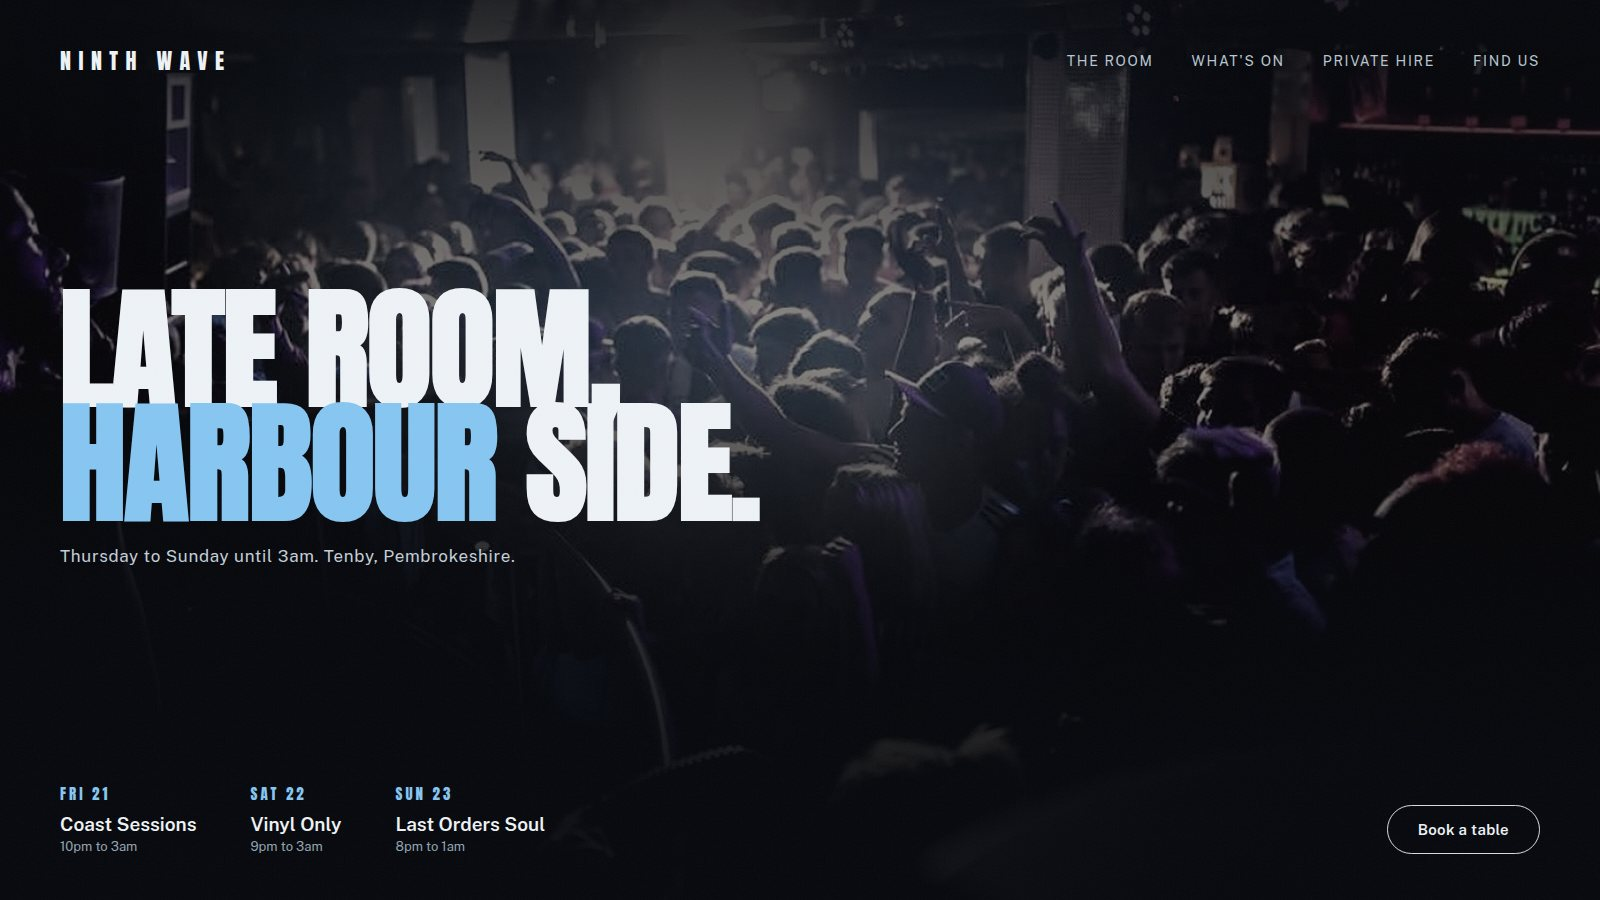
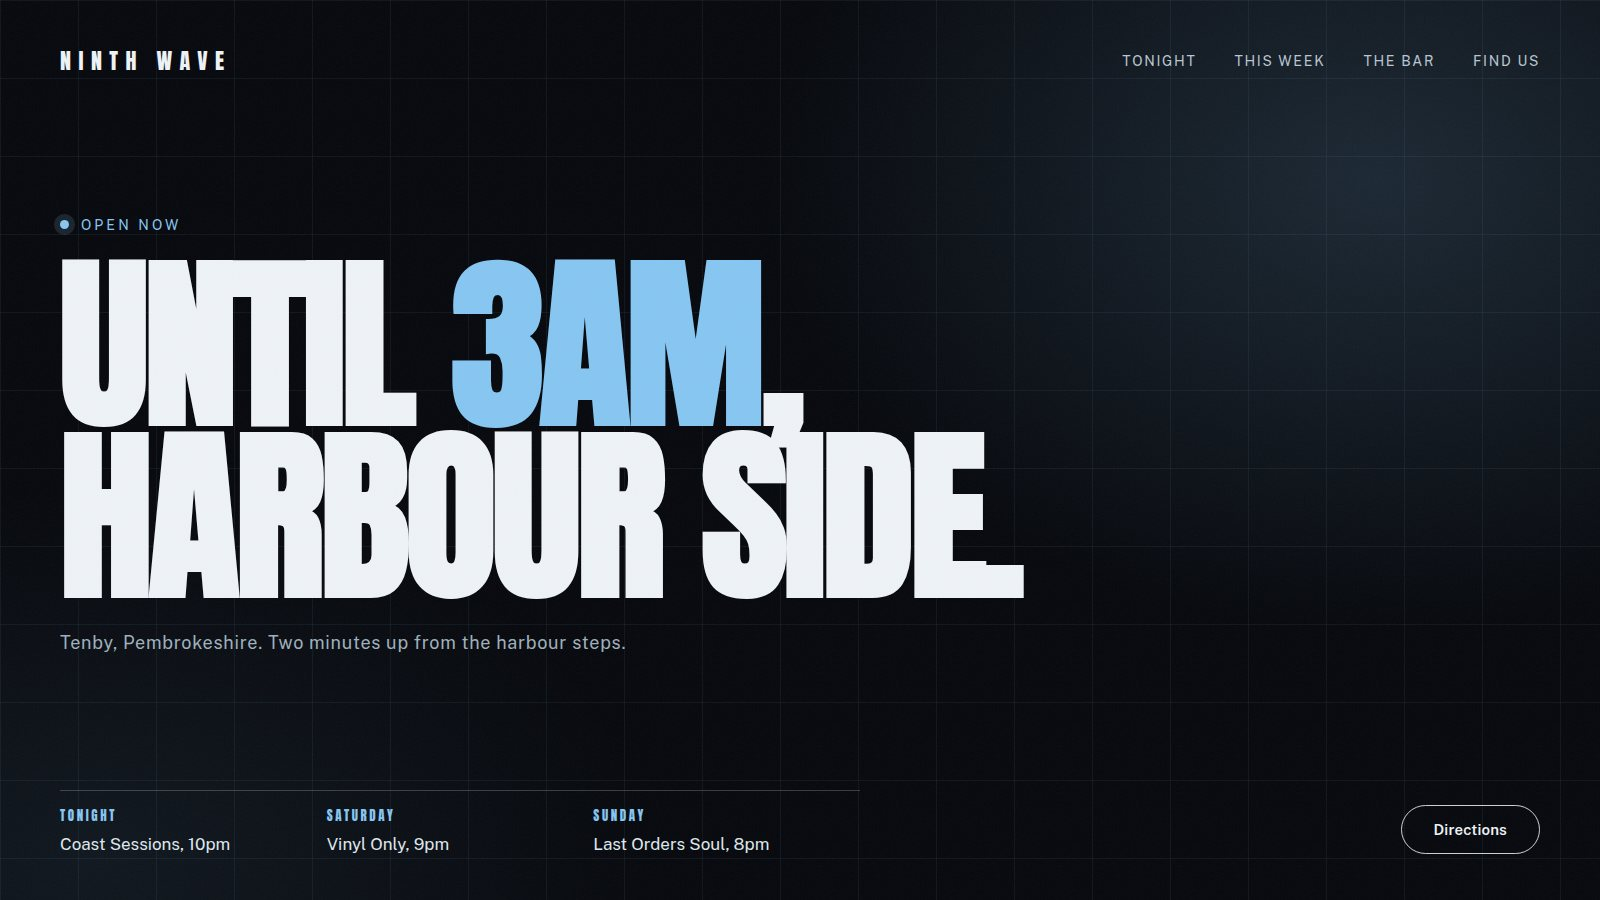
Put real detail in About, and cut the copy that repeated itself
The About section was written before I knew anything real about Kit, so it
said nothing. It now carries his own material: eighteen, Haverfordwest, the
nightclub at the top of the page being in the same town as his desk.

Rebalanced that section's grid at the same time. Three paragraphs made the
prose column taller than the heading column and left a hole under the display
type, so the availability line and CTA now sit in a second row under the
heading, against the prose baseline. The section fits one viewport again.

Honesty pass on the work section. Four of the five pieces are not client
engagements, and the section was calling all of them "Real businesses, real
problems". They now carry a Concept tag on the card and a line in the case
study saying what they are, which also stops the one live build being flattened
into a row of five things that look equally real. Dropped "West Wales' biggest
nightclub" too; the venue's own site says "No.1", and neither claim is ours.

Cut the repeats that were making it read as one idea said four ways:

- Ninth Wave was the Eddie Rocks case study again in other words, down to the
  nav labels and the photograph, which was literally the other venue's. It is
  now a type-led design about being findable at half ten at night, with no
  photography at all.
- The three ticked promises beside the process heading restated the fact strip
  and the About answers. Replaced with one line about the process itself.
[…]

diff --git a/portfolio/src/content.ts b/portfolio/src/content.ts
@@ -6,7 +6,7 @@
 export const SITE = {
   name: "Kit Ryder",
   role: "Web designer & developer",
-  place: "Pembrokeshire, Wales",
+  place: "Haverfordwest, Pembrokeshire",
   email: "hello@kitryder.co.uk", // EDIT
   /* Where the contact form posts. Leave empty and the form falls back to
      opening a pre-filled email instead, so it always works. Formspree, Basin,
@@ -31,13 +31,13 @@ export const NAV = [
 export const CTA = { label: "Start a project", href: "#contact" };
 
 export const HERO = {
-  eyebrow: "Web design and build, Pembrokeshire",
+  eyebrow: "Freelance web design and build",
   headline: ["Websites that", "make a business", "impossible to ignore."],
   sub: "Pubs, restaurants, trades, shops and salons across West Wales.",
   primary: { label: "See the work", href: "#work" },
   secondary: CTA,
   /* A caption for the frame beside it, not a second headline. */
-  proof: "On screen: Eddie Rocks, Haverfordwest",
+  proof: "On screen: Eddie Rocks, a site I designed and built",
 };
 
 export const STRIP = {
@@ -64,6 +64,10 @@ export type Project = {
   image: string;
   aspect?: string;
   liveUrl?: string;
+  /* Marks a piece that is not a client engagement. Eddie Rocks has no status
+     because it is live; anything with one is labelled on the card and in the
+     case study, so nothing here can be mistaken for work that shipped. */
+  status?: string;
 };
 
 /* The flagship. Real work, real venue, and the case study links to the site
@@ -74,11 +78,9 @@ export const FEATURED = {
   sector: "Nightclub",
   town: "Haverfordwest",
   role: "Design and build",
-  year: "Quay Street",
-  kicker: "Featured build",
   headline: "Three floors, drawn in the browser.",
   summary:
-    "West Wales' biggest nightclub, and a site that had to make you feel the room before you reached the door.",
+    "A nightclub on Quay Street, and a site that had to make you feel the room before you reached the door.",
   body: [
     "A night out sells on atmosphere, and atmosphere does not survive a list of opening times. The site had to carry the feeling of the room, explain a building most people only half know, and take private hire without a phone call.",
     "So the venue is not photographed, it is modelled. The building and every room inside it are drawn live in WebGL, lit the way they are actually lit. Around that sit the things a Saturday night needs: door times, a countdown to opening, the line up, and an enquiry form.",
@@ -96,8 +98,10 @@ export const FEATURED = {
   cta: { label: "Get one like this", href: "#contact" },
 };
 
-/* EDIT: placeholder projects. Replace the copy and drop a real screenshot into
-   /public/work using the same file name. Images are 16:9. */
+/* EDIT: concept builds. Replace the copy and drop a real screenshot into
+   /public/work using the same file name. Images are 16:9. When one of these
+   becomes a real client, delete its `status` line and it stops being labelled
+   as a concept. */
 export const PROJECTS: Project[] = [
   {
     slug: "ninth-wave",
@@ -105,14 +109,15 @@ export const PROJECTS: Project[] = [
     sector: "Bar and late lounge",
     town: "Tenby",
     role: "Design and build",
-    summary: "A late bar whose whole identity lived in Instagram stories that vanished after 24 hours.",
+    summary: "A late bar everybody in town knew, and nobody could find online.",
     challenge:
-      "Everything the room had going for it, the line-up, the private hire, the Friday crowd, was invisible by Sunday. People searching for somewhere to go found a Facebook page and a phone number.",
+      "Search for somewhere open past eleven in Tenby and it did not come up at all. What did was a review site carrying the wrong closing time and a photograph from 2016.",
     approach:
-      "A full-bleed dark site built around the room itself. The line-up and hours come from a small CMS the manager updates on his phone, and table enquiries land in one inbox with the date, the size of the group and the occasion attached.",
-    outcome: "Table enquiries arrive as a form instead of a direct message at 1am.",
+      "One page that answers the question people are actually asking at half ten at night. Open or not, what is on, where the door is. Built light on purpose, because it has to work on one bar of signal outside.",
+    outcome: "Someone standing outside at half ten can tell it is open, without ringing.",
     tech: ["React", "TypeScript", "Sanity CMS", "Vercel"],
     image: "/work/ninth-wave.jpg",
+    status: "Concept",
   },
   {
     slug: "penrhos",
@@ -128,6 +133,7 @@ export const PROJECTS: Project[] = [
     outcome: "The kitchen updates its own menu. No email, no wait, no PDF.",
     tech: ["Astro", "Tailwind", "Sanity CMS", "Netlify"],
     image: "/work/penrhos.jpg",
+    status: "Concept",
   },
   {
     slug: "ivor-and-sons",
@@ -143,6 +149,7 @@ export const PROJECTS: Project[] = [
     outcome: "Chairs get filled before the shop opens, without anyone answering a call.",
     tech: ["Next.js", "Tailwind", "Booking API", "Cloudflare"],
     image: "/work/ivor-and-sons.jpg",
+    status: "Concept",
   },
   {
     slug: "carreg",
@@ -158,6 +165,7 @@ export const PROJECTS: Project[] = [
     outcome: "Quote requests come in with photos, a postcode and a start date attached.",
     tech: ["React", "TypeScript", "Cloudinary", "Netlify"],
     image: "/work/carreg.jpg",
+    status: "Concept",
   },
   {
     slug: "elin-vaughan",
@@ -173,6 +181,7 @@ export const PROJECTS: Project[] = [
     outcome: "One site she owns, that shows the work at full quality without the wait.",
     tech: ["React", "Motion", "Cloudflare Images"],
     image: "/work/elin-vaughan.jpg",
+    status: "Concept",
   },
 ];
 
@@ -182,7 +191,7 @@ export const SERVICES = [
     lead: "Built around what your business actually needs to say.",
     detail:
       "We start with the one thing a visitor has to understand, and the page gets built outward from that.",
-    points: ["A design built for you alone", "Layouts that hold on any screen", "A look you can reuse everywhere"],
+    points: ["Designed on your real words and photographs", "Layouts that hold on any screen", "A look you can reuse everywhere"],
   },
   {
     title: "Website development",
@@ -228,23 +237,25 @@ export const PROCESS = {
     {
       k: "Launch",
       v: "Domain, hosting, search listings and analytics, all handled. Then I stay reachable, because things always come up.",
-      note: "Support after launch",
+      note: "Live within a day of sign off",
     },
   ],
-  why: [
-    "Messages answered in hours, not next week",
-    "Agency standard without the agency overheads",
-    "Still here after the invoice is paid",
-  ],
+  note: "Every step ends with something you can actually look at, so you are never taking my word for how it is going.",
 };
 
 export const ABOUT = {
   /* EDIT: drop a photo at /public/kit.jpg and set portrait to "/kit.jpg". */
   portrait: "",
-  heading: "I am Kit Ryder, and I build websites in Pembrokeshire.",
+  heading: "I am Kit Ryder, and I work out of Haverfordwest.",
+  /* EDIT: this is the one section that should sound like you and nobody else.
+     Saying your age outright is a deliberate call: stated plainly it reads as
+     confidence, and the third paragraph turns it into a reason to hire you.
+     If you would rather it were not on the page, delete the first sentence of
+     the first paragraph and the rest still stands on its own. */
   body: [
-    "I build for businesses that look better in person than they do online. That gap is the website, and it is fixable.",
-    "I care about how a site feels in the first three seconds, and whether it brings you more of the customers you actually want.",
+    "I am eighteen. I have been making things on a screen since well before I was any good at it, and design is the part I kept chasing: why one page feels expensive and the next one does not, why people stop scrolling at one thing and slide past another.",
+    "The nightclub at the top of this page is in the same town as my desk. That is roughly the point. I would rather build for somewhere I can walk into and stand in than for a brief that arrives in an inbox.",
+    "The advantage of hiring someone at the start of this is simple enough. I am not juggling twelve other jobs, I have not learned to cut corners, and I do not intend to.",
   ],
   /* EDIT: say these in your own words. They exist to be the things a business
      owner cannot read on every other web designer's site. */
@@ -257,7 +268,7 @@ export const ABOUT = {
 
 export const WHERE = {
   heading: "Built for businesses on this coast.",
-  body: "From St Davids to Tenby, and remotely with everyone else. Near enough that I can come and stand in the place before I design anything for it.",
+  body: "From St Davids to Tenby, and remotely with everyone else. Close enough that meeting on a Tuesday morning is not an event, it is just a Tuesday.",
 };
 
 export const CONTACT = {

diff --git a/portfolio/mocks/mocks.css b/portfolio/mocks/mocks.css
@@ -20,23 +20,30 @@ body { background: #222; font-family: PublicSans, sans-serif; }
 
 /* 1. Ninth Wave ------------------------------------------------------------ */
 .nw { background: #05070c; color: #eef3f7; }
-.nw img.bg { position: absolute; inset: 0; width: 100%; height: 100%; object-fit: cover; filter: saturate(.75) contrast(1.05) brightness(.72) hue-rotate(-8deg); }
-.nw .veil { position: absolute; inset: 0; background:
-  linear-gradient(180deg, rgba(5,7,12,.86) 0%, rgba(5,7,12,.25) 38%, rgba(5,7,12,.94) 88%),
-  radial-gradient(80% 60% at 12% 70%, rgba(5,7,12,.8), transparent 70%); }
+/* No photograph on purpose. This one is about being legible at half ten at
+   night, and the only photography available is the other venue's. */
+.nw .grid { position: absolute; inset: 0;
+  background-image: linear-gradient(rgba(134,198,242,.07) 1px, transparent 1px),
+                    linear-gradient(90deg, rgba(134,198,242,.07) 1px, transparent 1px);
+  background-size: 78px 78px; }
+.nw .glow { position: absolute; inset: 0;
+  background: radial-gradient(58% 76% at 86% 20%, rgba(134,198,242,.17), transparent 66%),
+              radial-gradient(50% 60% at 6% 96%, rgba(134,198,242,.08), transparent 70%); }
 .nw .in { position: relative; height: 100%; display: flex; flex-direction: column; justify-content: space-between; padding: 44px 60px 46px; }
 .nw .top { display: flex; align-items: center; justify-content: space-between; }
 .nw .mark { font-family: Anton; font-size: 22px; letter-spacing: .34em; }
 .nw nav { display: flex; gap: 38px; font-size: 14px; letter-spacing: .12em; text-transform: uppercase; color: #b9c6d2; }
-.nw h1 { font-family: Anton; font-size: 132px; line-height: .86; letter-spacing: -.01em; max-width: 12ch; text-transform: uppercase; }
+.nw .status { display: inline-flex; align-items: center; gap: 12px; font-size: 14px; letter-spacing: .22em; text-transform: uppercase; color: #86c6f2; }
+.nw .status .dot { width: 9px; height: 9px; border-radius: 50%; background: #86c6f2; box-shadow: 0 0 0 6px rgba(134,198,242,.15); }
+.nw h1 { margin-top: 26px; font-family: Anton; font-size: 186px; line-height: .92; letter-spacing: -.02em; text-transform: uppercase; }
 .nw h1 em { font-style: normal; color: #86c6f2; }
-.nw .sub { margin-top: 26px; font-size: 17px; letter-spacing: .04em; color: #c3cfda; }
-.nw .btm { display: flex; align-items: flex-end; justify-content: space-between; gap: 40px; }
-.nw .nights { display: flex; gap: 54px; }
-.nw .night .d { font-family: Anton; font-size: 15px; letter-spacing: .2em; color: #86c6f2; }
-.nw .night .t { margin-top: 8px; font-size: 19px; font-weight: 600; }
-.nw .night .h { margin-top: 4px; font-size: 13px; color: #93a3b1; }
-.nw .book { border: 1px solid rgba(238,243,247,.9); border-radius: 999px; padding: 15px 30px; font-size: 15px; font-weight: 600; letter-spacing: .02em; }
+.nw .sub { margin-top: 30px; font-size: 18px; letter-spacing: .04em; color: #9fb0bd; }
+.nw .btm { display: flex; align-items: flex-end; justify-content: space-between; gap: 48px; }
+.nw .week { display: flex; flex: 1; max-width: 800px; }
+.nw .week .d { flex: 1; border-top: 1px solid rgba(238,243,247,.22); padding: 15px 26px 0 0; }
+.nw .week .d b { display: block; font-family: Anton; font-weight: 400; font-size: 13px; letter-spacing: .2em; text-transform: uppercase; color: #86c6f2; }
+.nw .week .d span { display: block; margin-top: 9px; font-size: 17px; color: #dfe7ee; }
+.nw .map { border: 1px solid rgba(238,243,247,.85); border-radius: 999px; padding: 15px 32px; font-size: 15px; font-weight: 600; letter-spacing: .01em; }
 
 /* 2. Penrhos --------------------------------------------------------------- */
 .pn { background: #10241d; color: #f0ebe0; display: grid; grid-template-columns: 1fr 560px; }

diff --git a/portfolio/src/components/Work.tsx b/portfolio/src/components/Work.tsx
@@ -67,8 +67,15 @@ function Meta({ project, size = "lg" }: { project: Project; size?: "lg" | "sm" }
       <h3 className={`u-display ${size === "lg" ? "text-[clamp(1.6rem,2.4vw,2.1rem)]" : "text-[clamp(1.35rem,1.8vw,1.6rem)]"}`}>
         {project.name}
       </h3>
-      <p className="u-fg2 mt-1.5 text-[0.86rem]">
-        {project.sector}, {project.town}
+      <p className="u-fg2 mt-1.5 flex flex-wrap items-center gap-x-2.5 gap-y-1 text-[0.86rem]">
+        <span>
+          {project.sector}, {project.town}
+        </span>
+        {project.status && (
+          <span className="border border-[var(--line)] px-1.5 py-px text-[0.66rem] tracking-[0.14em] uppercase">
+            {project.status}
+          </span>
+        )}
       </p>
       <p className="mt-3.5 max-w-[38ch] text-[0.95rem] leading-[1.6]">{project.outcome}</p>
       <ul className="mt-4 flex flex-wrap gap-1.5">
@@ -174,8 +181,11 @@ export function Work() {
             <p className="u-label">The work</p>
             <WordReveal text="Selected work" className="u-h2 mt-4" />
           </div>
-          <p className="u-fg2 max-w-[34ch] text-[0.95rem] leading-[1.6]">
-Real businesses, real problems. What each site had to fix is in its case study.
+          {/* Says plainly which of these shipped. The live one is worth more when
+             it is not sitting in a row of five things that all look equally real. */}
+          <p className="u-fg2 max-w-[36ch] text-[0.95rem] leading-[1.6]">
+            Eddie Rocks is live, and it is in my town. The four under it are concept builds: the same
+            process, run on the kinds of business I want to work with.
           </p>
         </div>
 
@@ -224,7 +234,8 @@ Real businesses, real problems. What each site had to fix is in its case study.
           <Reveal>
             <div className="u-line-t mt-[clamp(2.5rem,5vh,3.5rem)] flex flex-wrap items-center justify-between gap-4 pt-6">
               <p className="u-fg2 text-[0.95rem]">
-                {PROJECTS[4].name}, {PROJECTS[4].sector.toLowerCase()} in {PROJECTS[4].town}.
+                {PROJECTS[4].name}, {PROJECTS[4].sector.toLowerCase()} in {PROJECTS[4].town}
+                {PROJECTS[4].status ? `, ${PROJECTS[4].status.toLowerCase()}` : ""}.
               </p>
               <button
                 type="button"

diff --git a/portfolio/mocks/mocks.html b/portfolio/mocks/mocks.html
@@ -9,24 +9,25 @@
 
 <!-- 1. Ninth Wave, bar and late lounge ---------------------------------- -->
 <section class="shot w16 nw grain" id="ninth-wave">
-  <img class="bg" src="../../assets/images/hero-room.jpg" alt="" />
-  <div class="veil"></div>
+  <div class="grid"></div>
+  <div class="glow"></div>
   <div class="in">
     <div class="top">
       <div class="mark">NINTH WAVE</div>
-      <nav><span>The Room</span><span>What's On</span><span>Private Hire</span><span>Find Us</span></nav>
+      <nav><span>Tonight</span><span>This week</span><span>The bar</span><span>Find us</span></nav>
     </div>
-    <div>
-      <h1>Late room,<br /><em>harbour</em> side.</h1>
-      <p class="sub">Thursday to Sunday until 3am. Tenby, Pembrokeshire.</p>
+    <div class="mid">
+      <div class="status"><span class="dot"></span>Open now</div>
+      <h1>Until <em>3am</em>,<br />harbour side.</h1>
+      <p class="sub">Tenby, Pembrokeshire. Two minutes up from the harbour steps.</p>
     </div>
     <div class="btm">
-      <div class="nights">
-        <div class="night"><div class="d">FRI 21</div><div class="t">Coast Sessions</div><div class="h">10pm to 3am</div></div>
-        <div class="night"><div class="d">SAT 22</div><div class="t">Vinyl Only</div><div class="h">9pm to 3am</div></div>
-        <div class="night"><div class="d">SUN 23</div><div class="t">Last Orders Soul</div><div class="h">8pm to 1am</div></div>
+      <div class="week">
+        <div class="d"><b>Tonight</b><span>Coast Sessions, 10pm</span></div>
+        <div class="d"><b>Saturday</b><span>Vinyl Only, 9pm</span></div>
+        <div class="d"><b>Sunday</b><span>Last Orders Soul, 8pm</span></div>
       </div>
-      <div class="book">Book a table</div>
+      <div class="map">Directions</div>
     </div>
   </div>
 </section>

diff --git a/portfolio/src/components/Process.tsx b/portfolio/src/components/Process.tsx
@@ -1,6 +1,5 @@
 "use client";
 import { motion, useReducedMotion, useScroll, useTransform } from "motion/react";
-import { Check } from "@phosphor-icons/react";
 import { useRef } from "react";
 import { PROCESS } from "../content";
 import { EASE, viewportOnce } from "../lib/motion";
@@ -25,21 +24,17 @@ export function Process() {
             <p className="u-label">How it works</p>
             <WordReveal text={PROCESS.heading} className="u-h2 mt-4 max-w-[15ch]" />
           </div>
-          <ul className="md:col-span-5 md:col-start-8 md:self-end">
-            {PROCESS.why.map((w, i) => (
-              <motion.li
-                key={w}
-                className="flex items-start gap-3 py-1.5 text-[0.95rem]"
-                initial={reduce ? false : { opacity: 0, x: 10 }}
-                whileInView={{ opacity: 1, x: 0 }}
-                viewport={viewportOnce}
-                transition={{ duration: 0.5, delay: i * 0.07, ease: EASE }}
-              >
-                <Check size={16} weight="bold" aria-hidden className="mt-1 shrink-0 text-[var(--accent)]" />
-                {w}
-              </motion.li>
-            ))}
-          </ul>
+          {/* This used to be three ticked promises, which were the fact strip and
+             the About answers said a third time. One line about the process. */}
+          <motion.p
+            className="u-body md:col-span-5 md:col-start-8 md:self-end"
+            initial={reduce ? false : { opacity: 0, x: 10 }}
+            whileInView={{ opacity: 1, x: 0 }}
+            viewport={viewportOnce}
+            transition={{ duration: 0.6, ease: EASE }}
+          >
+            {PROCESS.note}
+          </motion.p>
         </div>
 
         <div ref={ref} className="relative mt-[clamp(2.75rem,6vh,4rem)]">

diff --git a/portfolio/src/components/About.tsx b/portfolio/src/components/About.tsx
@@ -19,19 +19,26 @@ export function About() {
     <section id="about" data-surface="light" className="s-light py-[clamp(3.25rem,8vh,5.5rem)]">
       <div className="u-wide">
         <div className="grid gap-10 md:grid-cols-12 md:gap-10">
-          <div className="md:col-span-7">
+          <div className="md:col-span-7 md:col-start-1 md:row-start-1">
             <p className="u-label">Who you are hiring</p>
             <WordReveal text={ABOUT.heading} stagger={0.03} className="u-h2 mt-4 max-w-[13ch]" />
           </div>
 
-          <div className="md:col-span-4 md:col-start-9">
+          {/* The prose column spans both rows so the availability line below the
+             heading can settle against its baseline instead of leaving a hole
+             under the display type. On mobile the grid collapses and the three
+             children fall in DOM order: heading, prose, availability. */}
+          <div className="md:col-span-4 md:col-start-9 md:row-start-1 md:row-span-2">
             {ABOUT.body.map((p, i) => (
               <Reveal key={p.slice(0, 20)} delay={0.06 * i} className="mb-5 last:mb-0">
                 <p className="u-body max-w-[46ch] text-[1rem]">{p}</p>
               </Reveal>
             ))}
-            <Reveal delay={0.18}>
-              <div className="u-line-t mt-8 pt-6">
+          </div>
+
+          <div className="md:col-span-5 md:col-start-1 md:row-start-2 md:self-end">
+            <Reveal delay={0.12}>
+              <div className="u-line-t pt-6">
                 <p className="flex items-center gap-2.5 text-[0.9rem]">
                   <span aria-hidden className="relative flex h-2 w-2">
                     {!reduce && (

diff --git a/portfolio/src/components/ProjectOverlay.tsx b/portfolio/src/components/ProjectOverlay.tsx
@@ -78,9 +78,22 @@ export function ProjectOverlay({ project, onClose }: { project: Project | null; 
             </div>
 
             <h2 className="u-h2 mt-6">{project.name}</h2>
-            <p className="mt-3 text-[0.95rem] text-[var(--fg-2)]">
-              {project.sector}, {project.town}
+            <p className="mt-3 flex flex-wrap items-center gap-x-3 gap-y-2 text-[0.95rem] text-[var(--fg-2)]">
+              <span>
+                {project.sector}, {project.town}
+              </span>
+              {project.status && (
+                <span className="border border-[var(--line)] px-2 py-0.5 text-[0.68rem] tracking-[0.14em] uppercase">
+                  {project.status}
+                </span>
+              )}
             </p>
+            {project.status && (
+              <p className="mt-4 max-w-[54ch] text-[0.9rem] leading-[1.6] text-[var(--fg-2)]">
+                A build I designed to a brief of my own, not a client engagement. The thinking below is
+                how I would approach the real one.
+              </p>
+            )}
 
             <img
               src={project.image}
